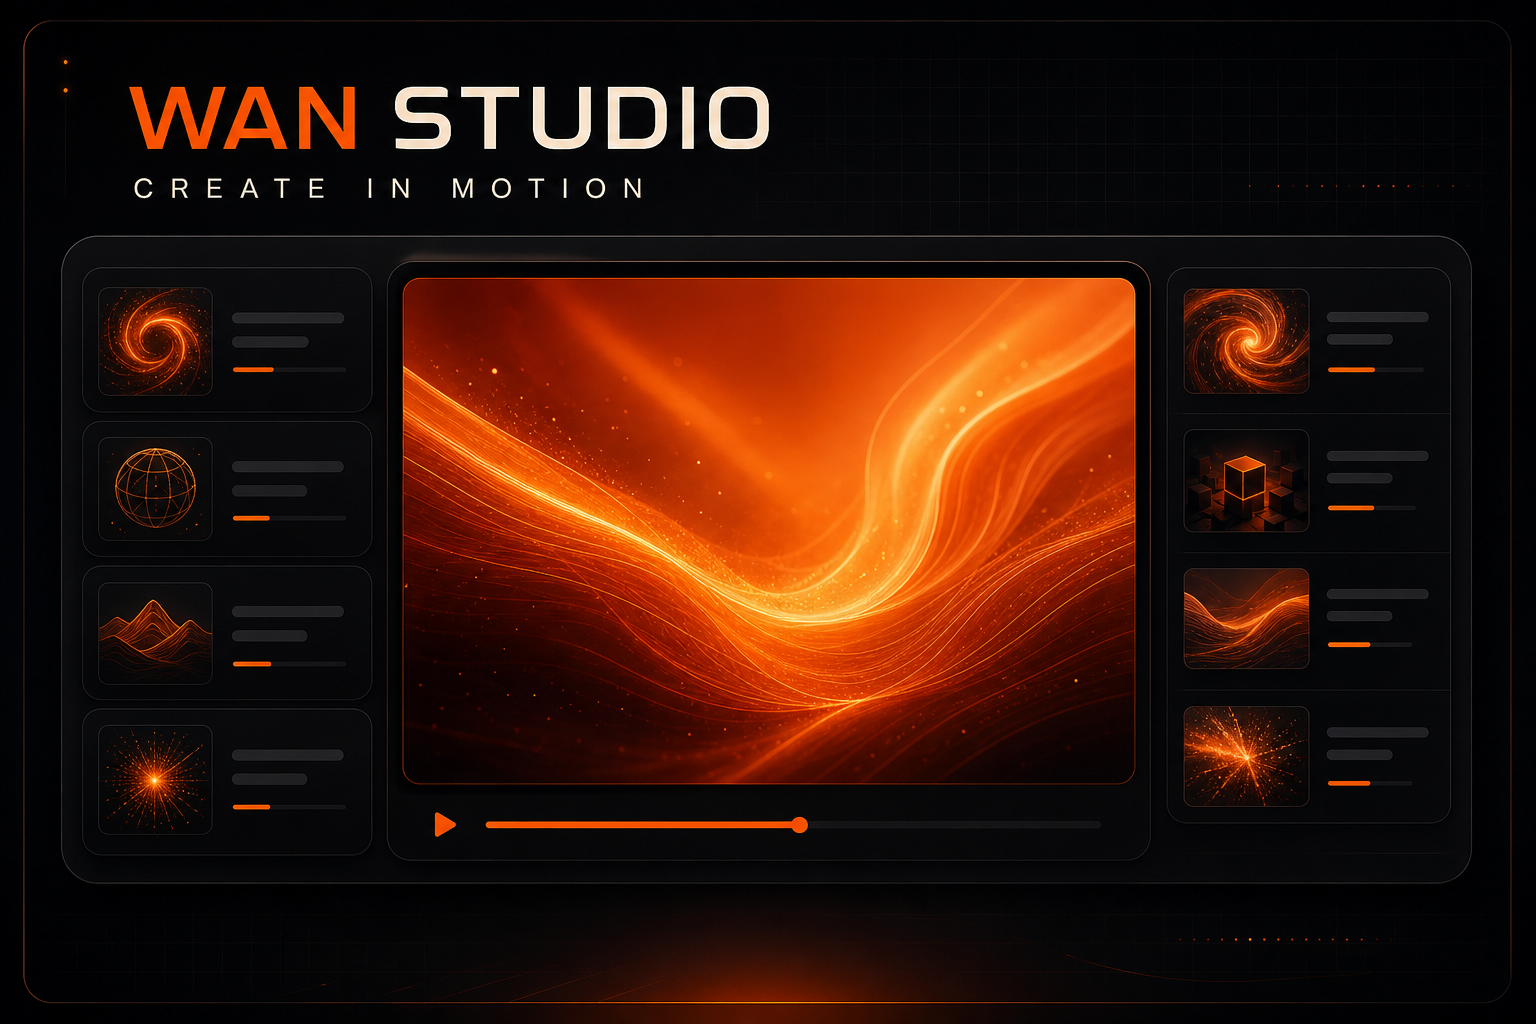
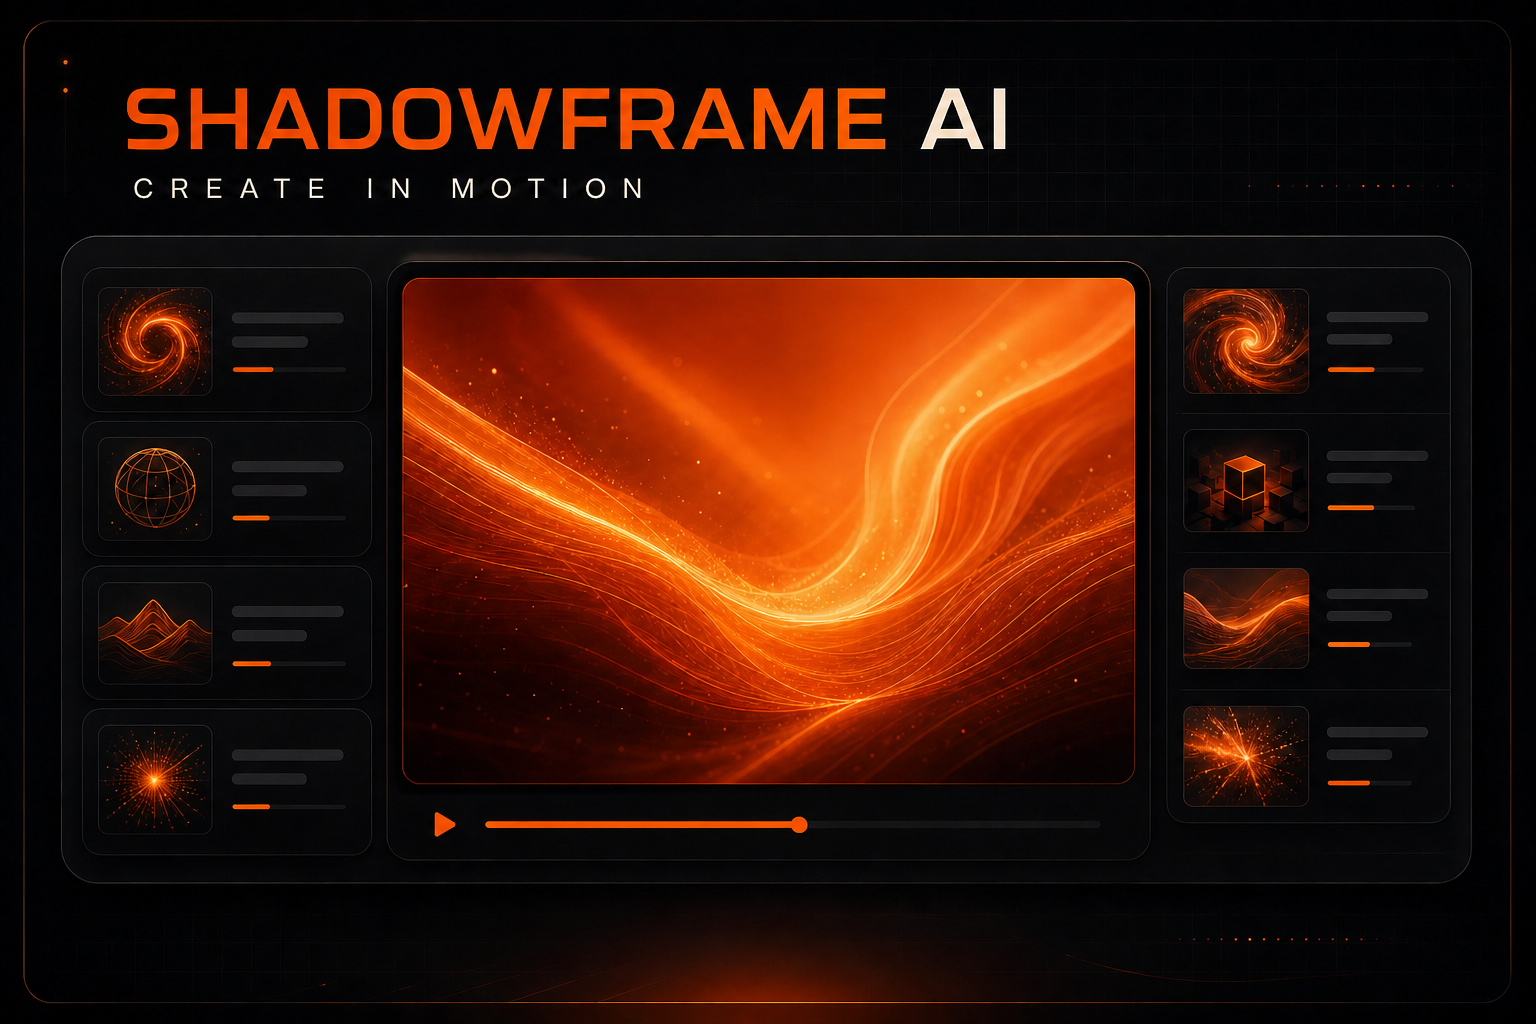
Rename Afterdark AI to Shadowframe AI

diff --git a/app/api/generate/route.ts b/app/api/generate/route.ts
@@ -87,7 +87,7 @@ export async function POST(request: Request) {
       workflow["6"].inputs.text = body.negativePrompt || "";
       workflow["8"].inputs.seed = seed;
       workflow["10"].inputs.scale_by = hiresScale;
-      workflow["11"].inputs.filename_prefix = isWaiAnima ? "image/AfterdarkAI_WAI_ANIMA_i2i" : "image/AfterdarkAI_ANIMA_i2i";
+      workflow["11"].inputs.filename_prefix = isWaiAnima ? "image/ShadowframeAI_WAI_ANIMA_i2i" : "image/ShadowframeAI_ANIMA_i2i";
       if (selectedStyle.id !== "original" && selectedStyle.file) {
         workflow["12"] = {
           class_type: "LoraLoader",
@@ -112,7 +112,7 @@ export async function POST(request: Request) {
       workflow["5"].inputs.height = height;
       workflow["6"].inputs.seed = seed;
       workflow["9"].inputs.scale_by = hiresScale;
-      workflow["10"].inputs.filename_prefix = isWaiAnima ? "image/AfterdarkAI_WAI_ANIMA" : "image/AfterdarkAI_ANIMA";
+      workflow["10"].inputs.filename_prefix = isWaiAnima ? "image/ShadowframeAI_WAI_ANIMA" : "image/ShadowframeAI_ANIMA";
       if (selectedStyle.id !== "original" && selectedStyle.file) {
         workflow["11"] = {
           class_type: "LoraLoader",
@@ -135,7 +135,7 @@ export async function POST(request: Request) {
       workflow["74"].inputs.height = height;
       workflow["74"].inputs.length = length;
       workflow["81"].inputs.noise_seed = seed;
-      workflow["80"].inputs.filename_prefix = "video/AfterdarkAI_t2v";
+      workflow["80"].inputs.filename_prefix = "video/ShadowframeAI_t2v";
       workflow["80"].inputs.format = "mp4";
       workflow["80"].inputs.codec = "h264";
     } else {
@@ -147,7 +147,7 @@ export async function POST(request: Request) {
       workflow["129:98"].inputs.length = length;
       workflow["129:86"].inputs.noise_seed = seed;
       workflow["129:131"].inputs.value = body.fastMode !== false;
-      workflow["108"].inputs.filename_prefix = "video/AfterdarkAI_i2v";
+      workflow["108"].inputs.filename_prefix = "video/ShadowframeAI_i2v";
     }
 
     const clientId = crypto.randomUUID();

diff --git a/app/layout.tsx b/app/layout.tsx
@@ -12,16 +12,16 @@ export async function generateMetadata(): Promise<Metadata> {
   const protocol = requestHeaders.get("x-forwarded-proto") || (host.startsWith("localhost") ? "http" : "https");
   const socialImage = `${protocol}://${host}/og.png`;
   return {
-    title: "Afterdark AI · Create Without Limits",
+    title: "Shadowframe AI · Create Without Limits",
     description: "A focused interface for creative image and video generation powered by ComfyUI.",
     openGraph: {
-      title: "Afterdark AI · Create Without Limits",
+      title: "Shadowframe AI · Create Without Limits",
       description: "Text-to-image, image-to-image, image-to-video, and text-to-video in one focused studio.",
-      images: [{ url: socialImage, width: 1536, height: 1024, alt: "Afterdark AI creative generation dashboard" }],
+      images: [{ url: socialImage, width: 1536, height: 1024, alt: "Shadowframe AI creative generation dashboard" }],
     },
     twitter: {
       card: "summary_large_image",
-      title: "Afterdark AI · Create Without Limits",
+      title: "Shadowframe AI · Create Without Limits",
       description: "A focused image and video generation studio powered by ComfyUI.",
       images: [socialImage],
     },

diff --git a/app/page.tsx b/app/page.tsx
@@ -371,9 +371,9 @@ export default function Home() {
   return (
     <main className="app-shell">
       <header className="topbar">
-        <a className="brand" href="#" aria-label="Afterdark AI home">
+        <a className="brand" href="#" aria-label="Shadowframe AI home">
           <span className="brand-mark">A</span>
-          <span>AFTERDARK AI</span>
+          <span>SHADOWFRAME AI</span>
         </a>
         <nav className="mode-switcher" aria-label="Generation mode">
           <button className={`mode-button ${mode === "txt-img" ? "active" : ""}`} type="button" onClick={() => selectMode("txt-img")}><Sparkles size={15} /> Text → Image</button>

diff --git a/github-pages/index.html b/github-pages/index.html
@@ -3,9 +3,9 @@
   <head>
     <meta charset="UTF-8" />
     <meta name="viewport" content="width=device-width, initial-scale=1.0" />
-    <meta name="description" content="Afterdark AI — image and video generation powered by ComfyUI." />
-    <link rel="icon" href="/afterdark-ai/favicon.svg" />
-    <title>Afterdark AI · Create Without Limits</title>
+    <meta name="description" content="Shadowframe AI — image and video generation powered by ComfyUI." />
+    <link rel="icon" href="/favicon.svg" />
+    <title>Shadowframe AI · Create Without Limits</title>
   </head>
   <body>
     <div id="root"></div>

diff --git a/github-pages/main.tsx b/github-pages/main.tsx
@@ -5,7 +5,7 @@ import "../app/globals.css";
 
 const root = document.getElementById("root");
 
-if (!root) throw new Error("Afterdark AI could not find its page root.");
+if (!root) throw new Error("Shadowframe AI could not find its page root.");
 
 createRoot(root).render(
   <StrictMode>

diff --git a/README.md b/README.md
@@ -1,10 +1,10 @@
-# Afterdark AI
+# Shadowframe AI
 
-![Afterdark AI interface preview](public/og.png)
+![Shadowframe AI interface preview](public/og.png)
 
 A focused local interface for running creative generation workflows through ComfyUI.
 
-Public interface: https://thebalddudeco.github.io/afterdark-ai/
+Public interface: https://shadowframe.tech/
 
 The GitHub Pages build is a free static presentation of the interface. Generation requires the local app or a separately configured ComfyUI bridge because GitHub Pages cannot run server APIs.
 
@@ -33,7 +33,7 @@ Both WAI-ANIMA v1.0 and Anima Aesthetic v1.1 are selectable in Text to Image and
 The interface filters style LoRAs by generator mode and base-model compatibility. Wan video modes show only Wan-compatible styles, while both Anima image bases show their shared Anima styles.
 The base-model selector is mode-aware. The Visual Style area only shows Original plus LoRAs built for the selected checkpoint, preventing incompatible LoRAs from being mixed with the wrong model family.
 
-Afterdark AI passes consensual adult prompts directly to the selected local ComfyUI workflow. The generation endpoint rejects prompts involving minors, sexual violence or coercion, and sexual content involving animals.
+Shadowframe AI passes consensual adult prompts directly to the selected local ComfyUI workflow. The generation endpoint rejects prompts involving minors, sexual violence or coercion, and sexual content involving animals.
 
 ### Anima image models
 
@@ -63,7 +63,7 @@ The Text to Video workflow additionally expects:
 1. Start ComfyUI and confirm it is available at `http://127.0.0.1:8188`.
 2. Install dependencies with `pnpm install`.
 3. Copy `.env.example` to `.env.local` only if your ComfyUI address is different.
-4. Start Afterdark AI with `pnpm dev`.
+4. Start Shadowframe AI with `pnpm dev`.
 5. Open the local address shown in the terminal.
 
 ## Configuration
